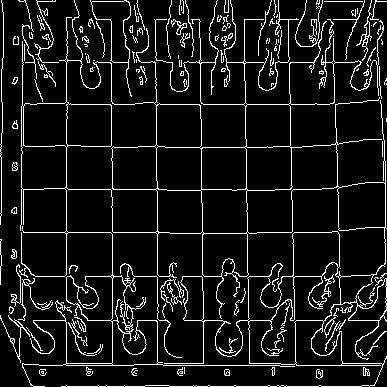
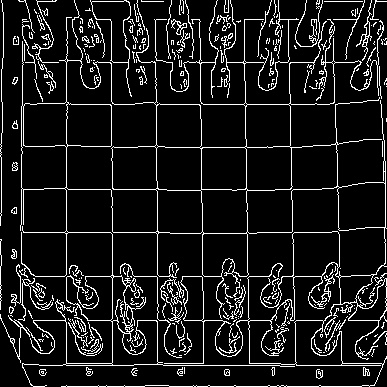
Hough perspective working

diff --git a/a.py b/a.py
@@ -10,7 +10,7 @@ Original file is located at
 import cv2
 import numpy as np
 import math
-# from skimage.filters import unsharp_mask
+from skimage.filters import unsharp_mask
 from PIL import Image, ImageDraw
 from itertools import cycle
 # from google.colab.patches import cv2_imshow
@@ -114,8 +114,8 @@ def get_edges(img):
   std = np.std(img)
   th1 = min(0,meadian - std)
   th2 = max(255,meadian + std)
-  th1 = 100
-  th2 = 300
+  th1 = 80
+  th2 = 160
 
   # th2, thresh_im = cv2.threshold(img, 0, 255, cv2.THRESH_BINARY + cv2.THRESH_OTSU)
   # th1 = th2//3
@@ -144,7 +144,7 @@ def get_lines(lines, cdst):
     theta = theta*180/np.pi
     margin =10
     if(theta < 45 -margin or theta > 180 - 45 + margin):
-      if(countV > 19):
+      if(countV > 20):
         continue
 
       if (abs(rho)>3 and abs(rho < img.shape[1] - 3)):
@@ -166,7 +166,7 @@ def get_lines(lines, cdst):
         cv2.line(cdst, pt1, pt2, (0,0,255), 3, cv2.LINE_AA)
     
     elif(theta > 45 + margin and theta < 135 - margin):
-      if(countH > 19):
+      if(countH > 20):
         continue
 
       if (abs(rho)>3 and abs(rho < img.shape[0] - 3)):
@@ -228,16 +228,16 @@ def make_lines(h_lines, v_lines, cdst):
 
   cv2.imwrite("final_lines.jpg",cdst)
 
-def unsharp_mask(image, kernel_size=(5, 5), sigma=1.0):
-  blurred = cv2.GaussianBlur(image, kernel_size, sigma)
-  sharpened = 2.0 * image - 1.0 * blurred
-  return sharpened.astype(np.uint8)
+# def unsharp_mask(image, kernel_size=(5, 5), sigma=1.0):
+#   blurred = cv2.GaussianBlur(image, kernel_size, sigma)
+#   sharpened = 2.0 * image - 1.0 * blurred
+#   return sharpened.astype(np.uint8)
 
 
 if __name__ == '__main__':
 
   image_name = "chess_1.jfif"
-  img = cv2.imread(image_name, 0)
+  img = cv2.imread(image_name)
   # img = unsharp_mask(img, radius=5, amount)
 
   lines, cd1 = get_edges(img)
@@ -296,18 +296,17 @@ if __name__ == '__main__':
   image = cv2.imread(image_name)
 
   warped, checkerboard_size = four_point_transform(image, pts)
-  # warped = unsharp_mask(warped)
   warped = cv2.resize(warped, (checkerboard_size, checkerboard_size))
   cv2.imwrite("warped.jpg", warped)
   warped = cv2.cvtColor(warped, cv2.COLOR_BGR2GRAY)
 
+  # warped = unsharp_mask(warped)
+
   # img = cv2.imread("warped.jpg", 0)
-  # gaussian = cv2.GaussianBlur(img, (3,3), 1.0)
-  # img = cv2.addWeighted(img, 2, gaussian, -1, 0, img)
-  print(h_lines[:5])
+  # gaussian = cv2.GaussianBlur(warped, (3,3), 1.0)
+  # warped = cv2.addWeighted(warped, 2, gaussian, -1, 0, warped)
   lines, cd2 = get_edges(warped)
   h_lines, v_lines = get_lines(lines, np.copy(cd2))
-  print(h_lines[:5])
 
   h_lines = np.array(h_lines)
   v_lines = np.array(v_lines)
@@ -342,12 +341,12 @@ if __name__ == '__main__':
       b = np.linalg.norm(X[i+1][j] - X[i+1][j+1])
       c = np.linalg.norm(X[i][j] - X[i+1][j])
       d = np.linalg.norm(X[i][j+1] - X[i+1][j+1])
-      if abs(a - b) < 1 and abs(c - d) < 1 and abs(a -c) < 1 and abs(b -d) < 1 and a>20:
-        print(a,b,c,d)
+      if abs(a - b) < 1 and abs(c - d) < 1 and abs(a -c) < 1 and abs(b -d) < 1 and a>10:
+        # print(a,b,c,d)
         square = [i, j, v_lines[i], h_lines[j], a]
         break
 
-  print(square)
+  # print(square)
   h_lines_final = []
   v_lines_final = []
 
@@ -357,18 +356,18 @@ if __name__ == '__main__':
   # v_lines_final.append(v_lines[square[0]+1])
 
   counter = 0
-  for j in range(X.shape[0] - square[0]):
+  for j in range(X.shape[0] - square[0] - 1):
     counter += 1
     m = np.inf
     index = -1
     for i in range(square[0] + 1, X.shape[0]):
       # for j in range(v_lines.shape[0]):
       # print(i, abs(np.linalg.norm(X[square[0]][square[1]] - X[j][square[1]]) - counter*square[-1]))
-      x = abs(abs(v_lines[i][0]*v_lines[i][2] - v_lines[square[0]][0]*v_lines[square[0]][2]) - counter*square[-1])
+      x = abs(abs(v_lines[i][0] - v_lines[square[0]][0]) - counter*square[-1])
       if x < m:
         m = x
         index = i
-    if m < 15:  
+    if m < 10:  
       v_lines_final.append(v_lines[index])
 
   counter = 0
@@ -376,29 +375,30 @@ if __name__ == '__main__':
     counter += 1
     m = np.inf
     index = -1
-    for i in range(square[0] -1, -1, -1):
+    for i in range(square[0] -1, 0, -1):
       # for j in range(v_lines.shape[0]):
       # print(j, abs(np.linalg.norm(X[square[0]][square[1]] - X[i][square[1]]) - counter*square[-1]))
-      x = abs(abs(v_lines[i][0]*v_lines[i][2] - v_lines[square[0]][0]*v_lines[square[0]][2]) - counter*square[-1])
+      x = abs(abs(v_lines[i][0] - v_lines[square[0]][0]) - counter*square[-1])
+      print(x)
       if x < m:
         m = x
         index = i
-    if m < 15:
+    if m < 10:
       v_lines_final.append(v_lines[index])
         
 
   counter = 0
-  for j in range(X.shape[1] - square[1]):
+  for j in range(X.shape[1] - square[1] - 1):
     counter += 1
     m = np.inf
     index = -1
     for i in range(square[1] + 1, X.shape[1]):
       # print(i, abs(np.linalg.norm(X[square[0]][square[1]] - X[square[0]][j]) - counter*square[-1]))
-      x = abs(abs(h_lines[i][0]*h_lines[i][2] - h_lines[square[1]][0]*h_lines[square[1]][2]) - counter*square[-1])
+      x = abs(abs(h_lines[i][0] - h_lines[square[1]][0]) - counter*square[-1])
       if x < m:
         m = x
         index = i
-    if m < 15:
+    if m < 10:
       h_lines_final.append(h_lines[index])
 
   counter = 0
@@ -407,11 +407,11 @@ if __name__ == '__main__':
     m = np.inf
     index = -1
     for i in range(square[1]-1, -1, -1):
-      x = abs(abs(h_lines[i][0]*h_lines[i][2] - h_lines[square[1]][0]*h_lines[square[1]][2]) - counter*square[-1])
+      x = abs(abs(h_lines[i][0] - h_lines[square[1]][0]) - counter*square[-1])
       if x < m:
         m = x
         index = i
-    if m <  15:
+    if m < 10:
       h_lines_final.append(h_lines[index])
 
   h_lines_final = np.array(h_lines_final)
